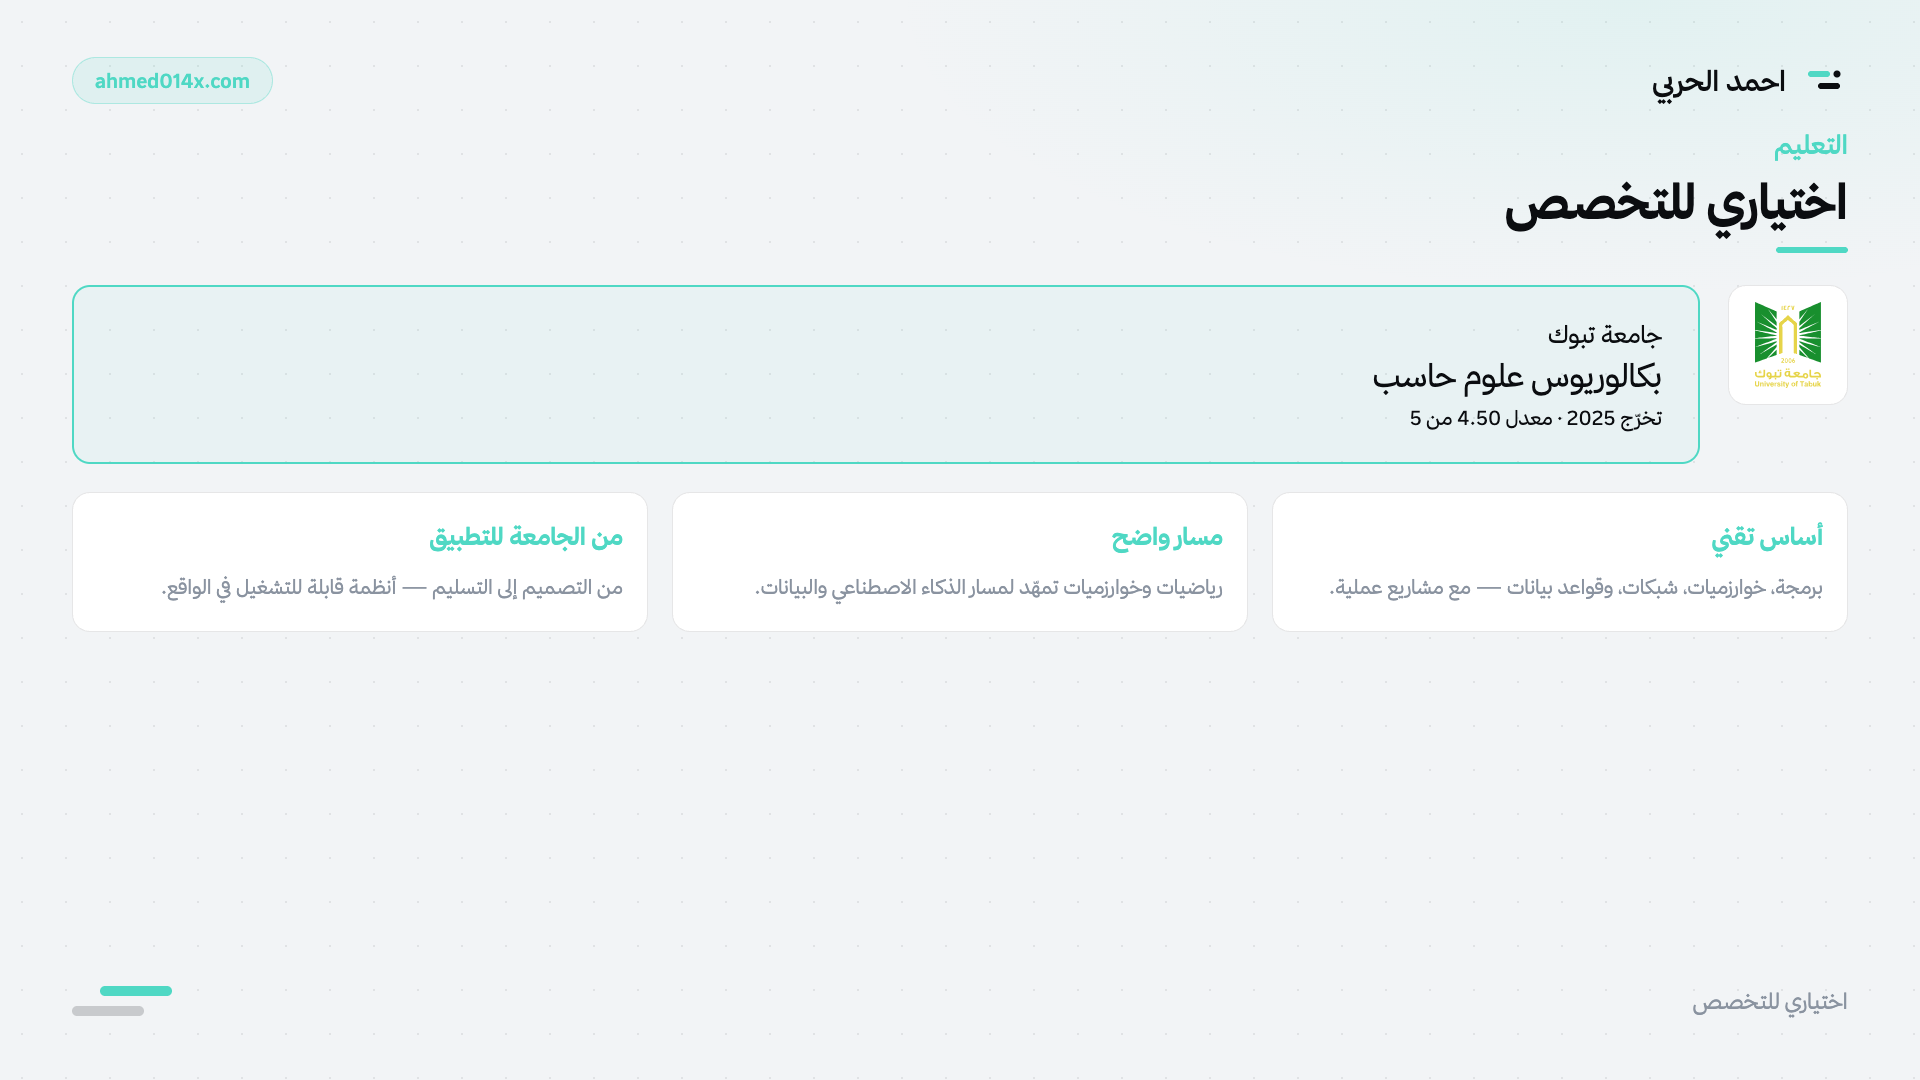
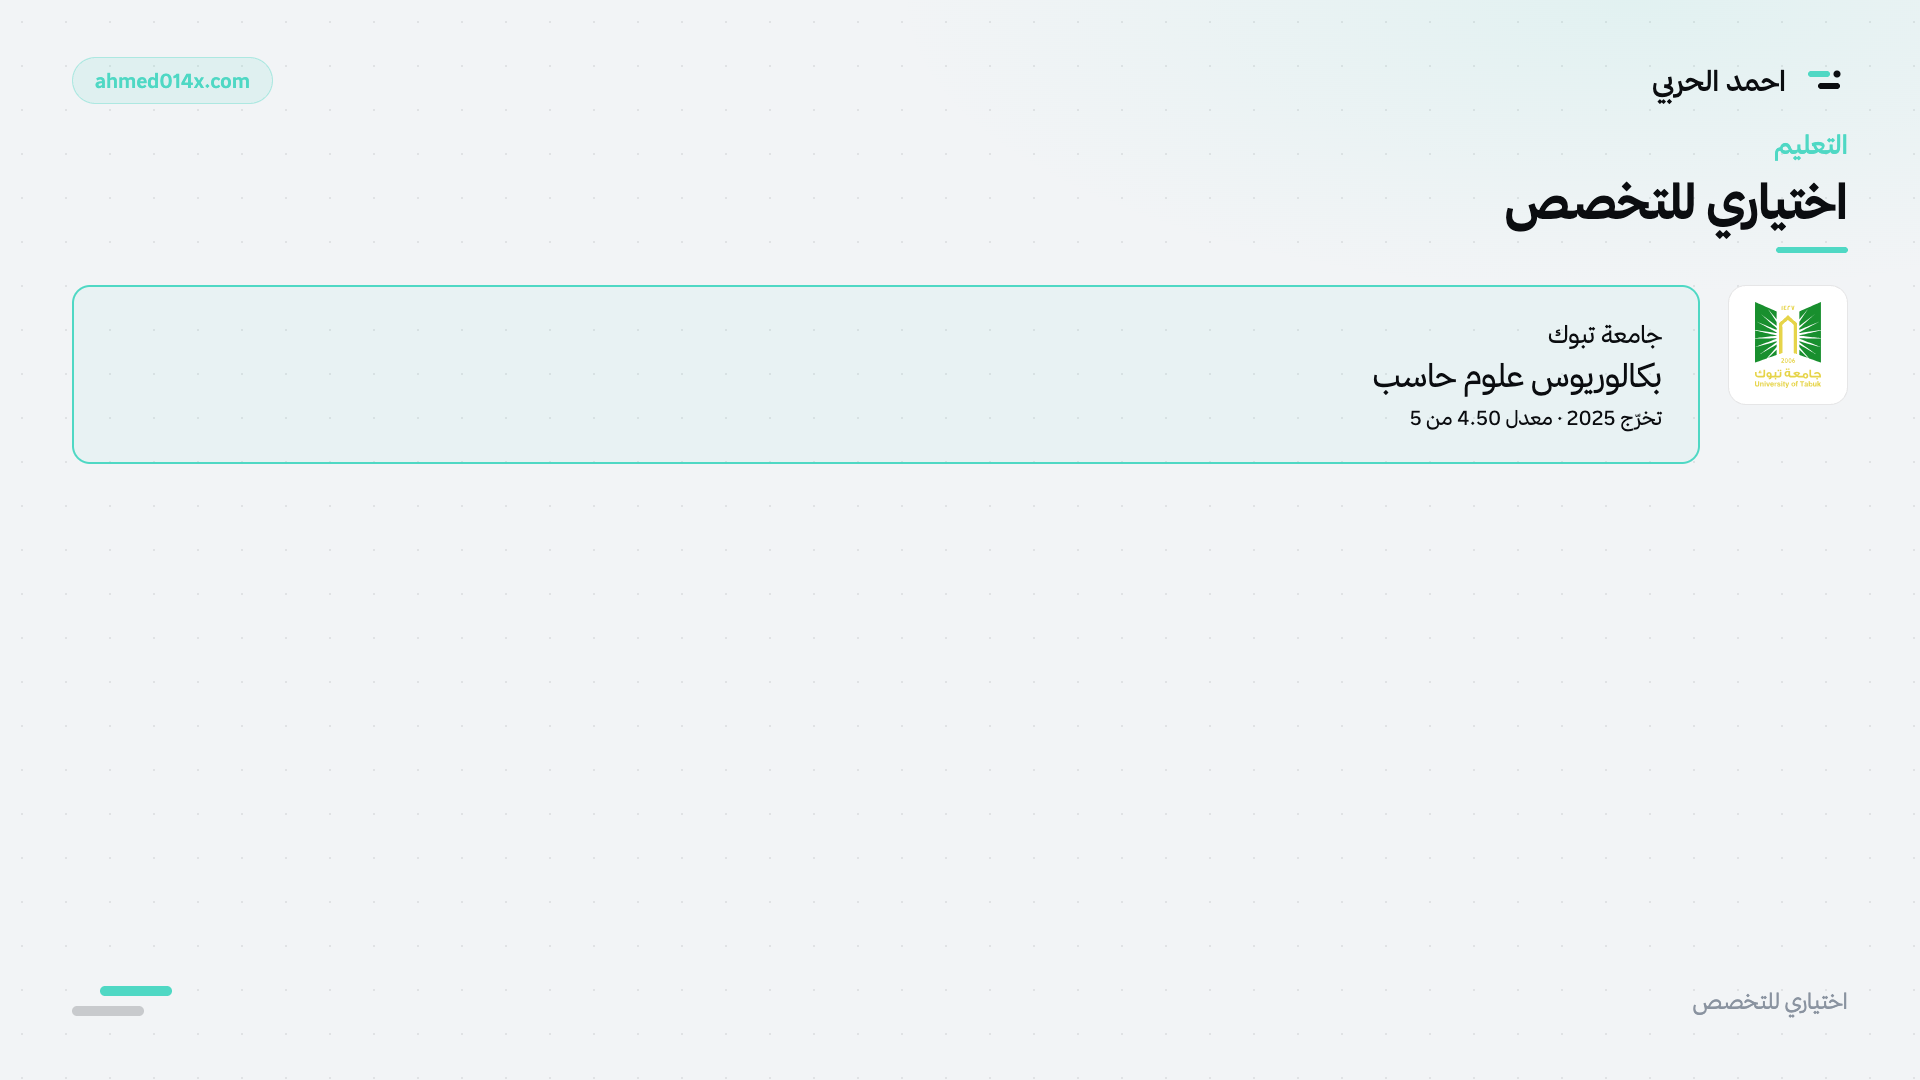
Add new section for "بعد سلاسل من الرفض" in HTML, featuring a grid layout for images and updated footer content. Enhanced styling for reject items to improve visual presentation.

diff --git a/brand-package/html/عرض-من-أنا.html b/brand-package/html/عرض-من-أنا.html
@@ -61,6 +61,9 @@ body{margin:0;background:#e8ebee;font-family:'Thmanyah Sans',sans-serif}
 .focus-title{font-size:28px;font-weight:700;color:#4fd8c4;line-height:1.3}
 .focus-desc{font-size:22px;line-height:1.65;color:#8a93a0;margin:0}
 .focus-flow{margin-top:28px;padding:24px 32px}
+.reject-grid{display:grid;grid-template-columns:repeat(4,1fr);gap:14px;flex:1;margin-top:24px;min-height:0;align-content:start}
+.reject-item{background:#ffffff;border:1px solid rgba(11,13,16,.10);border-radius:14px;padding:8px;overflow:hidden;display:flex;align-items:center;justify-content:center;height:175px}
+.reject-item img{width:100%;height:100%;object-fit:contain;display:block}
 </style>
 </head>
 <body>
@@ -246,25 +249,48 @@ body{margin:0;background:#e8ebee;font-family:'Thmanyah Sans',sans-serif}
         <div class="range" style="font-size:20px;margin-top:10px">تخرّج 2025 · معدل 4.50 من 5</div>
       </div>
     </div>
-
-    <div class="focus-grid" style="margin-top:28px;grid-template-columns:repeat(3,1fr)">
-      <div class="card focus-card" style="min-height:0;padding:28px 24px">
-        <div class="focus-title" style="font-size:24px">أساس تقني</div>
-        <div class="focus-desc" style="font-size:20px">برمجة، خوارزميات، شبكات، وقواعد بيانات — مع مشاريع عملية.</div>
-      </div>
-      <div class="card focus-card" style="min-height:0;padding:28px 24px">
-        <div class="focus-title" style="font-size:24px">مسار واضح</div>
-        <div class="focus-desc" style="font-size:20px">رياضيات وخوارزميات تمهّد لمسار الذكاء الاصطناعي والبيانات.</div>
-      </div>
-      <div class="card focus-card" style="min-height:0;padding:28px 24px">
-        <div class="focus-title" style="font-size:24px">من الجامعة للتطبيق</div>
-        <div class="focus-desc" style="font-size:20px">من التصميم إلى التسليم — أنظمة قابلة للتشغيل في الواقع.</div>
-      </div>
-    </div>
   </div>
 
   <div class="footer">
     <div class="page">اختياري للتخصص</div>
+    <div class="signal"><span class="a"></span><span class="b"></span></div>
+  </div>
+</div>
+
+<!-- 5 بعد الرفض -->
+<div id="s5" class="slide">
+  <div class="header">
+    <div class="mark">
+      <svg width="48" height="48" viewBox="0 0 96 96"><rect x="16" y="30" width="44" height="12" rx="6" fill="#4fd8c4"/><rect x="36" y="54" width="44" height="12" rx="6" fill="#0b0d10"/><circle cx="74" cy="36" r="7" fill="#0b0d10"/></svg>
+      <span style="font-size:28px;font-weight:600">احمد الحربي</span>
+    </div>
+    <span class="pill">ahmed014x.com</span>
+  </div>
+
+  <div style="margin-top:20px;display:flex;flex-direction:column;flex:1;min-height:0">
+    <div class="kicker">التعليم</div>
+    <div class="title" style="font-size:44px">بعد سلاسل من الرفض</div>
+    <div class="bar"></div>
+
+    <div class="reject-grid">
+      <div class="reject-item"><img src="../png/عرض-من-أنا/رفض/IMG_1883-27f72721-1764-44bb-a6a0-2baa87f07edd.jpg" alt=""/></div>
+      <div class="reject-item"><img src="../png/عرض-من-أنا/رفض/IMG_1892-5cc081c7-b134-418a-af66-c56756d45c51.jpg" alt=""/></div>
+      <div class="reject-item"><img src="../png/عرض-من-أنا/رفض/IMG_1925-62393159-a992-4b5b-8816-1b517cb494b5.jpg" alt=""/></div>
+      <div class="reject-item"><img src="../png/عرض-من-أنا/رفض/IMG_1868-c15a1a94-1b7a-496e-8168-bd9f4339594f.jpg" alt=""/></div>
+      <div class="reject-item"><img src="../png/عرض-من-أنا/رفض/IMG_1864-fe954ada-1c29-4779-8568-6be6ba66d198.jpg" alt=""/></div>
+      <div class="reject-item"><img src="../png/عرض-من-أنا/رفض/IMG_1866-e7b37680-766b-4e7a-9d8c-11f5bf875588.jpg" alt=""/></div>
+      <div class="reject-item"><img src="../png/عرض-من-أنا/رفض/IMG_1852-30388f6d-4a13-4b97-8cef-c599626ef02a.jpg" alt=""/></div>
+      <div class="reject-item"><img src="../png/عرض-من-أنا/رفض/IMG_1786-d57daafa-f92f-4f1d-8709-20ab7b028d4c.jpg" alt=""/></div>
+      <div class="reject-item"><img src="../png/عرض-من-أنا/رفض/IMG_7463-d60df34e-ac40-4291-b71b-8c0f66754043.jpg" alt=""/></div>
+      <div class="reject-item"><img src="../png/عرض-من-أنا/رفض/IMG_7462-63c4e6eb-76d3-4ea9-aeb9-36090adc7c4b.jpg" alt=""/></div>
+      <div class="reject-item"><img src="../png/عرض-من-أنا/رفض/IMG_7408-c444c5e0-2ef0-428b-8931-bb0b7403b4e1.jpg" alt=""/></div>
+      <div class="reject-item"><img src="../png/عرض-من-أنا/رفض/IMG_1867-4a693fd3-f2b0-4b85-8761-8b0cdcbdbaaa.jpg" alt=""/></div>
+      <div class="reject-item"><img src="../png/عرض-من-أنا/رفض/PHOTO-2020-08-19-08-11-59-5f2066b5-594c-4e3f-a971-de7fc350a7fa.jpg" alt=""/></div>
+    </div>
+  </div>
+
+  <div class="footer">
+    <div class="page">بعد سلاسل من الرفض</div>
     <div class="signal"><span class="a"></span><span class="b"></span></div>
   </div>
 </div>
